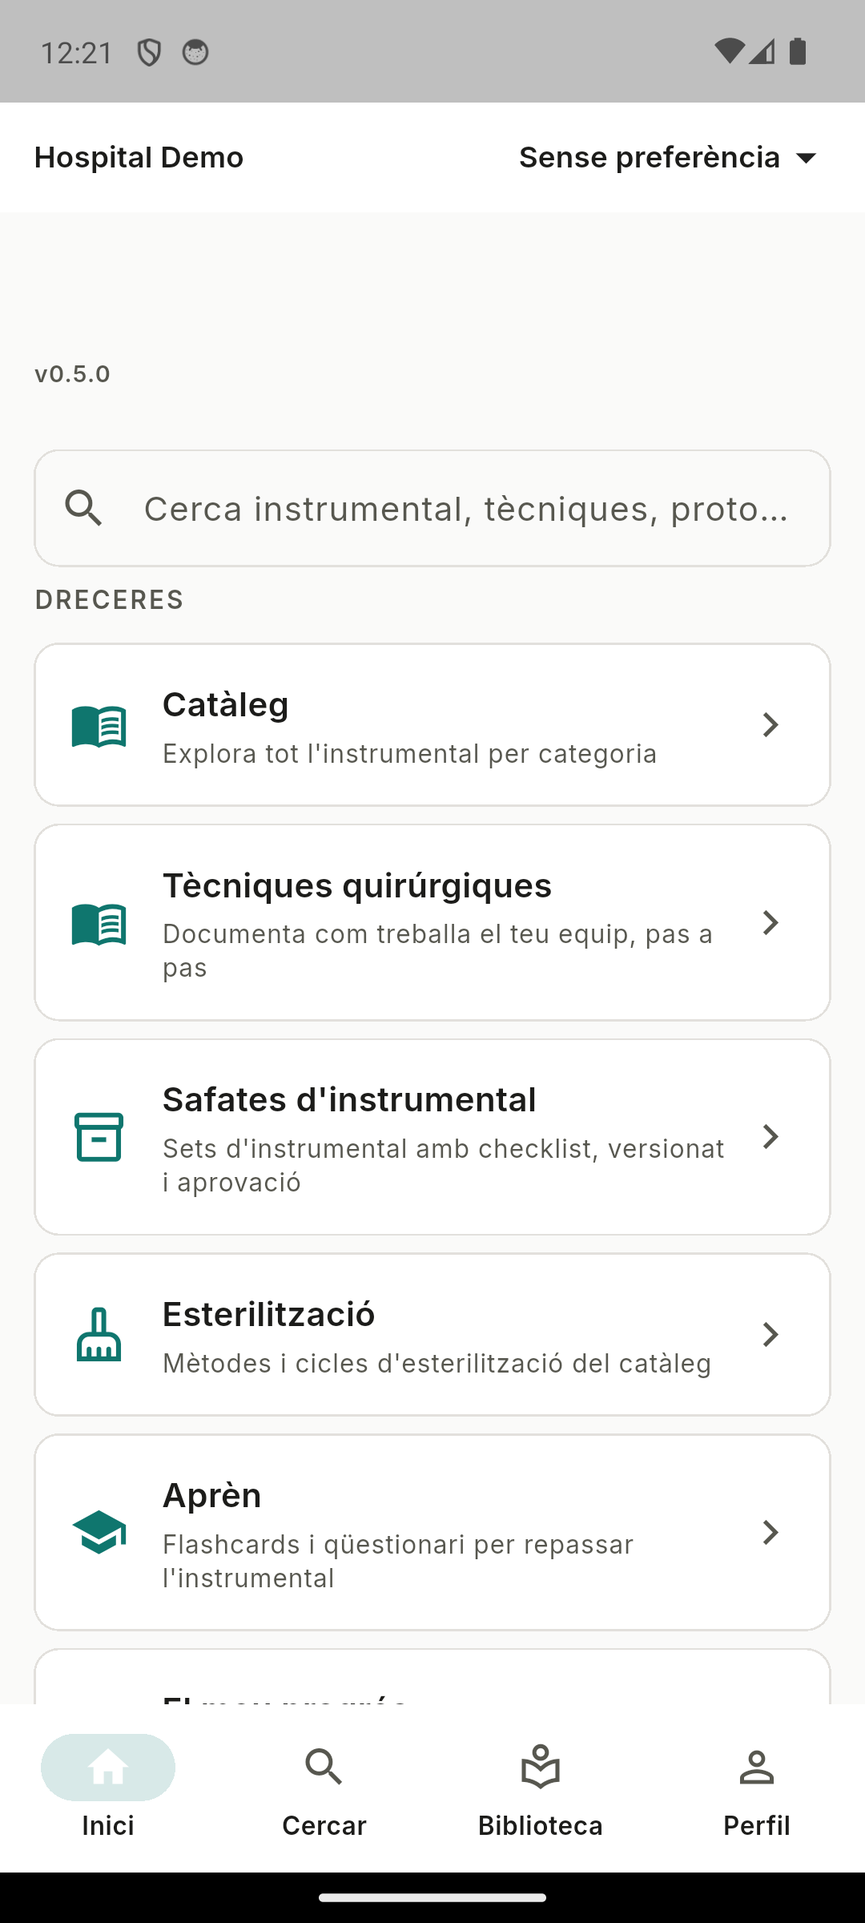
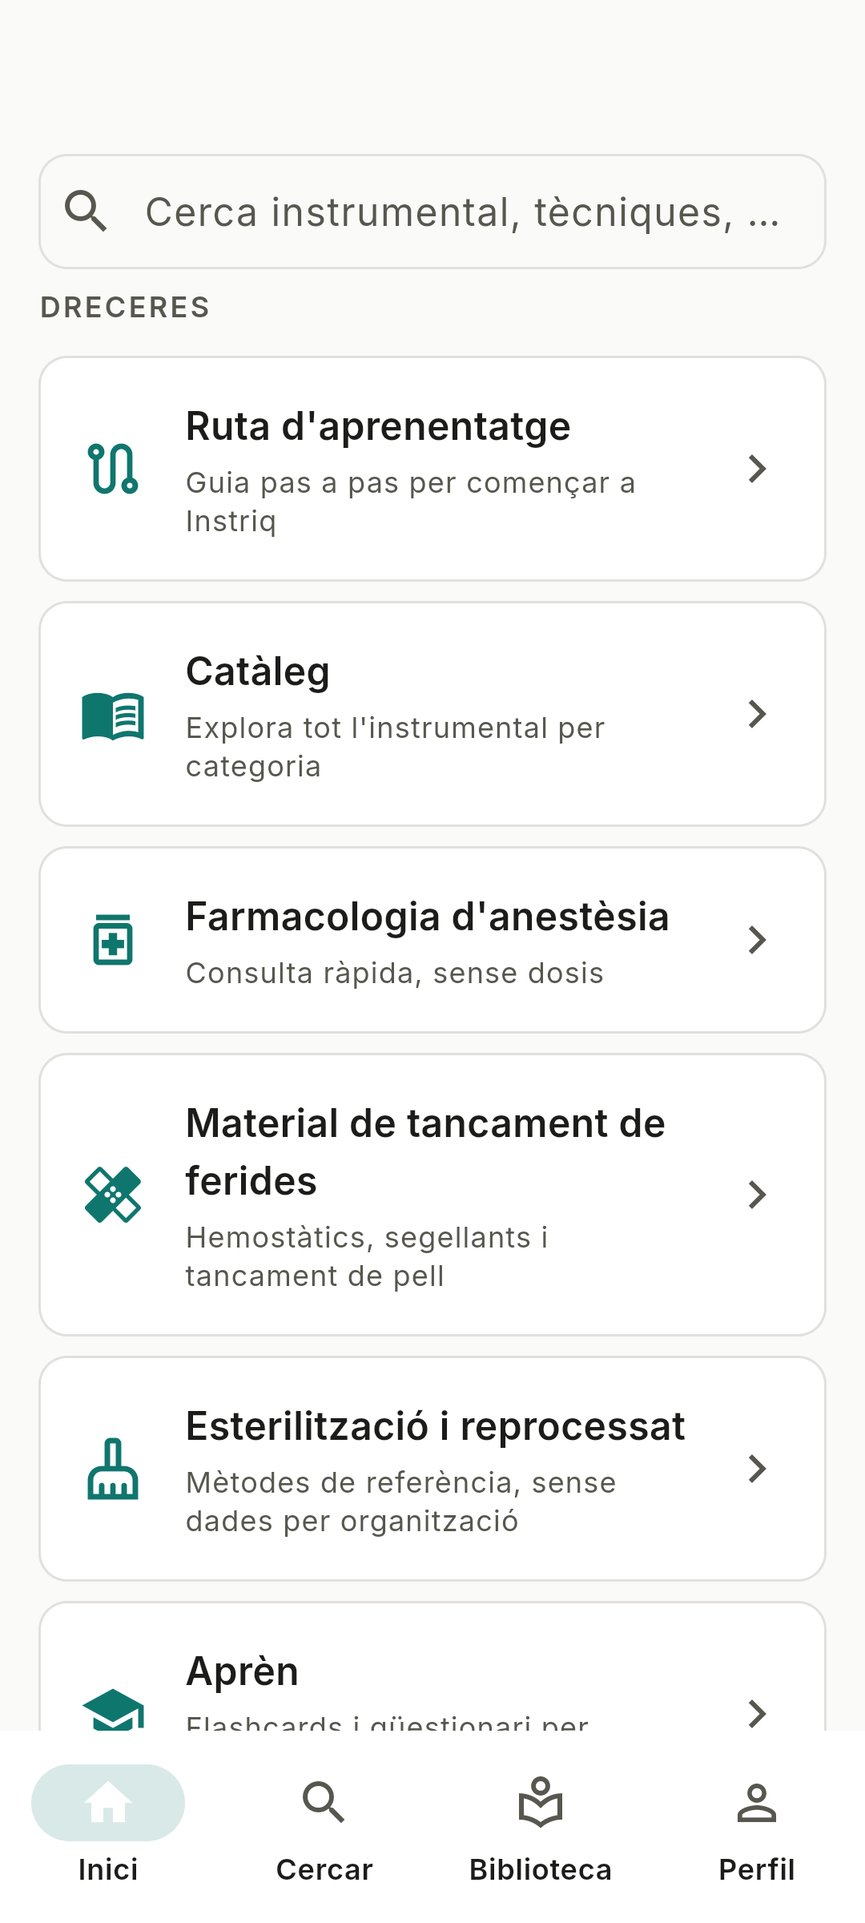
Captures actualitzades (home/catàleg) + pla de redisseny v1.2 (planificació)
Screenshots: capturades en viu amb Playwright contra flutter build web
(mateixa resolucio 1080x2400 que les originals), mode convidat, 'Saltar'
onboarding -> Inici i Cataleg reals d'avui (Dreceres amb els catalegs nous,
621 instruments). grupo.png/modo_quirofano.png no es toquen -- calen un
espai de treball autenticat real, fora d'abast d'aquesta ronda.

docs/redesign_v1.2_plan.md: pla de planificacio (NO implementacio) per a
un futur salt de versio 1.2, escrit per un agent dedicat a partir de
lectura real del codi (home_screen.dart sencer, navigation/, design_system/).
Troballa principal: no cal cap sistema de navegacio nou (el shell de 5
pestanyes ja funciona be) -- el problema real es una llista plana de
7-13 Dreceres sense agrupar, 3 duplicats d'acces detectats, i una cerca
global potent ja existent que la pestanya 'Cercar' no aprofita. 3 fases
proposades, totes sense dependencies noves, amb 6 decisions obertes
explicites per al propietari abans d'implementar.

diff --git a/docs/redesign_v1.2_plan.md b/docs/redesign_v1.2_plan.md
@@ -1,0 +1,235 @@
+# Pla de redisseny de navegació — v1.2 (Home + IA, planificació)
+
+> Tasca de **planificació**, no d'implementació. Objectiu del propietari, amb les seves paraules: fer la visualització més fàcil, que navegar i cercar es senti modern i còmode, **sense sacrificar rendiment**. No es toca cap pantalla en aquest tram — només aquest document. Basat en lectura real del codi (`lib/screens/home_screen.dart` sencer, `lib/navigation/`, `lib/design_system/`, grep de `lib/screens/`), no en suposicions. Mateix esperit que `docs/landing_redesign_phase2.md`: concret, amb l'evidència citada, amb els trade-offs explícits.
+
+---
+
+## 0. Troballa principal (per no enterrar-la)
+
+**El problema no és "falta un sistema de navegació modern" — ja existeix i funciona.** `lib/navigation/router.dart` + `lib/navigation/app_shell.dart` ja implementen una `StatefulShellRoute.indexedStack` de go_router amb 5 destins fixos (`NavigationBar` en mòbil, `NavigationRail` en pantalla ampla ≥840px): **Inici · Cercar · Biblioteca · Activitat · Perfil**. `LibraryScreen` i `ProfileHubScreen` ja agrupen el seu contingut per seccions amb `InstriqSectionHeader`. El problema real, confirmat llegint `home_screen.dart` sencer (1211 línies), és:
+
+1. La pestanya **"Inici" conté una secció "Dreceres" (`_buildQuickAccessSection`) que és una única llista vertical plana de fins a 13 `InstriqListItem`**, sense cap agrupació visual ni jerarquia — tot al mateix nivell, mateixa mida d'icona, mateix pes tipogràfic.
+2. **Hi ha accessos duplicats a la mateixa pantalla des de llocs diferents del shell** (detallat a §1.5) — no és "massa contingut", és contingut no organitzat i repetit.
+3. **Ja existeix una cerca global potent** (`_computeSearchResults` a `home_screen.dart`, 9 tipus d'entitat) amagada dins l'camp de cerca d'Inici, mentre la pestanya "Cercar" del shell obre només `CatalogScreen` (cerca d'instruments, no de tot). És un desaprofitament del que ja hi ha, no una funcionalitat que calgui construir.
+
+La recomanació principal (§3-4) és, doncs, **reorganitzar i consolidar amb els components i el shell que ja existeixen**, no construir cap sistema de navegació nou.
+
+---
+
+## 1. Estat actual (evidència)
+
+### 1.1 Shell de navegació real
+
+`lib/navigation/router.dart` — `GoRouter` amb `initialLocation: '/inicio'`, 1 ruta fora del shell (`/invite/:token`) i 5 branques dins de `StatefulShellRoute.indexedStack`:
+
+| # | Ruta | Pantalla | Icona |
+|---|---|---|---|
+| 0 | `/inicio` | `HomeScreen` | `home_outlined` |
+| 1 | `/buscar` | `CatalogScreen` | `search_outlined` |
+| 2 | `/biblioteca` | `LibraryScreen` | `local_library_outlined` |
+| 3 | `/actividad` | `ActivityScreen` | `notifications_outlined` |
+| 4 | `/perfil` | `ProfileHubScreen` | `person_outline` |
+
+`lib/navigation/app_shell.dart`: `NavigationBar` (<840px) o `NavigationRail` (≥840px), amb `WorkModeHeader` (52px, nom d'organització + selector de mode de treball, amagat sense hospital) sempre visible per sobre del contingut de la branca activa. La pestanya "Activitat" s'amaga si `!isAdmin && !canApproveAnyWorkspace` (`_activityBranchIndex`).
+
+**No cal dissenyar cap bottom nav nou: ja hi és, ja és responsive (nav bar ↔ nav rail), i ja amaga pestanyes segons rol.**
+
+### 1.2 Inventari real de "Dreceres" (Inici, sense cerca activa)
+
+Llegit sencer de `_buildQuickAccessSection` (`home_screen.dart:881-1012`). Llista única, sense subcapçaleres, ordre fix:
+
+| # | Ítem | Visible per a | Destí |
+|---|---|---|---|
+| 1 | Ruta d'aprenentatge | tothom | `LearningPathScreen` |
+| 2 | Catàleg | tothom | `CatalogScreen` |
+| 3 | Vademècum de fàrmacs | tothom | `DrugCatalogScreen` |
+| 4 | Tancament de ferides | tothom | `WoundClosureCatalogScreen` |
+| 5 | Esterilització (referència) | tothom | `SterilizationReferenceCatalogScreen` |
+| 6-7 | Tècniques, Bandeixes | amb hospital connectat | `GroupDocumentListScreen`/`TraysScreen` |
+| 8-9 | Fitxes de preferència, Protocols | amb hospital connectat | `PreferenceCardsScreen`/`GroupDocumentListScreen` |
+| 10 | Agenda quirúrgica | amb hospital connectat | `SurgicalAgendaScreen` |
+| 11 | Xarxa de grup | amb hospital **i** cadena (`hasGroup`) | `GroupNetworkScreen` |
+| 12 | Aprèn (flashcards/quiz) | tothom | `LearnScreen` |
+| 13 | El meu progrés | tothom | `ProgressScreen` |
+
+En mode "Cirurgià" els ítems 6-10 canvien d'ordre (preferència+protocols primero) — única personalització existent, via `_sectionOrderForMode`/el bloc `mode == WorkMode.cirujano ? [...] : [...]`.
+
+**Per tant: entre 7 (convidat) i 13 (soci d'una organització amb cadena) files idèntiques en pes visual, en una sola columna.** A ~76-84px per fila (icona 28px + 2 línies de text + padding `InstriqSpacing.lg`=16 + separador `sm`=8), només "Dreceres" ja ocupa ~1000-1150px de scroll en mòbil, abans de qualsevol altra secció.
+
+### 1.3 Altres seccions d'Inici (condicionals, per sobre o per sota de Dreceres segons `_sectionOrderForMode`)
+
+- **Pendents d'aprovar** (`_buildPendingApprovalSection`) — només admin/approver, fins a 5 ítems + "Veure-ho tot".
+- **Safates per preparar** (`_buildTrayPrepSection`) — només mode Instrumentista, fins a 5.
+- **Progrés de l'equip** (`_buildTeamProgressSection`) — només mode Docent + rol d'aprovació, 1 enllaç.
+- **Activitat recent** (`_buildRecentSection`) — usuari autenticat, fins a 8.
+- **Favorits** (`_buildFavoritesSection`) — usuari autenticat, sense límit, agrupats per tipus.
+
+Pitjor cas real (admin en mode Supervisió, hospital+cadena, amb pendents i favorits): **Pendents d'aprovar + 13 Dreceres + Recents + Favorits**, tot en un únic `SingleChildScrollView` vertical (`_buildDefaultBody`, línia 875).
+
+### 1.4 Cerca ja existent (reutilitzar, no reinventar)
+
+El camp de cerca d'Inici (`TextField` a `build()`, línia 674) ja crida `_computeSearchResults` (línia 544), que filtra en client **9 tipus d'entitat alhora**: instruments de catàleg, tècniques, protocols, safates, instrumental personalitzat, instrumental de Biblioteca Pública, fabricants, cirurgians i etiquetes — amb `fuzzyContains` (`lib/utils/fuzzy_match.dart`, sense dependència externa) i debounce de 150ms (`_liveSearchDebounce`) ja afinat per rendiment (comentari explícit a la línia 176-180 sobre per què cal el debounce). Els resultats es renderitzen amb `ListView.builder` + `InstriqSectionHeader` per tipus (línies 744-855) — **exactament el patró de "llista agrupada per seccions" que aquest pla recomana estendre a Dreceres** (§3.2).
+
+La pestanya "Cercar" del shell, en canvi, **no usa res d'això**: obre `CatalogScreen`, que només cerca dins del catàleg d'instruments (`matchesInstrumentFilters`, `catalog_screen.dart:22`) amb filtres de categoria/especialitat propis. Són dues cerques diferents amb abast diferent sota noms que suggereixen el mateix.
+
+### 1.5 Duplicacions detectades (evidència, no suposició)
+
+| Contingut | Accessible des de | Fitxers |
+|---|---|---|
+| Catàleg d'instruments | Dreceres (#2) **i** pestanya "Cercar" (`/buscar`) | `home_screen.dart:951-958`, `router.dart:51` — mateix `CatalogScreen` |
+| El meu progrés | Dreceres (#13) **i** Perfil → "Preferències" | `home_screen.dart:1002-1009`, `profile_hub_screen.dart:257-258` — mateix `ProgressScreen` |
+| Tècniques, Bandeixes, Protocols, Fitxes de preferència | Dreceres (#6-9) **i** Biblioteca → "Les meves col·leccions" | `home_screen.dart:883-917`, `library_screen.dart:121-186` — mateixos destins, resolts amb la mateixa lògica d'espai (`_openWorkspaceCollection` vs `_openCollection`) |
+
+`LibraryScreen` ja fa, per a 5 col·leccions de grup (hi afegeix Instrumental personalitzat, que Dreceres no té), exactament el que Dreceres intenta fer per a 4 d'elles — amb capçaleres de secció (`InstriqSectionHeader`) que Dreceres no té. No calen pantalles noves: **cal decidir on viu cada cosa un sol cop** (§3.3, i és una de les decisions obertes de §8).
+
+### 1.6 Design system disponible (construir-hi a sobre, no reinventar)
+
+`lib/design_system/`:
+- **Tokens** (`tokens.dart`): `InstriqColors` (accent teal fix, no `colorSchemeSeed`), `InstriqSpacing` (escala 4/8/12/16/24/32/48, cap número solt), `InstriqRadius` (8/12/16), `InstriqBreakpoints` (`tablet`=840, `desktop`=1280, `maxContentWidth`=720, `dashboardWideGrid`=1500), `InstriqTypography` (Manrope per a títols, Inter per a cos — ja carregades, 0 fonts noves).
+- **Components reutilitzables**: `InstriqListItem` (icona+títol+subtítol+chevron, usat ja a Inici/Biblioteca/Activitat/Perfil), `InstriqSectionHeader` (etiqueta majúscules, `letterSpacing: 1.1`), `InstriqSurface` (reemplaça `Card`: vora d'1px + radi, sense ombra Material — ja és el llenguatge visual pla/sobri de tota l'app), `InstriqBadge`, `InstriqCountBadge`, `InstriqResponsiveContent` (centra contingut a `maxContentWidth` en pantalla ampla, no-op en mòbil).
+- **Precedent directe de graella de targetes ja construït**: `HomeDashboardPanel` (`lib/screens/home_dashboard_panel.dart`, substitueix Dreceres en escriptori ample ≥1280px per a admins) ja fa un `Wrap` de `_DashboardTile` (targeta `Card` amb icona+títol+contingut+enllaç) amb 2-3 columnes segons amplada. **És exactament el patró visual que aquest pla proposa portar a mòbil per a Dreceres** (§4.2) — no cal inventar cap component nou, cal generalitzar-ne un que ja existeix i ja es construeix (`cols = constraints.maxWidth >= dashboardWideGrid ? 3 : 2`).
+
+### 1.7 Rendiment ja resolt, a respectar
+
+- `cached_network_image` ja gestiona totes les fotos (catàleg, comunitat) — cap re-descàrrega en fred (`CHANGELOG.md:46`).
+- Debounce de 150ms en cerca en viu + 500ms en analítica de cerca, deliberat i documentat al propi codi (`home_screen.dart:170-181`).
+- `ListView.builder` (no `ListView(children: [...])`) als resultats de cerca per no construir desenes d'ítems de cop (`home_screen.dart:743-746`).
+- `InstriqResponsiveContent` ja resol "no estirar de vora a vora en escriptori" sense cap `LayoutBuilder` per pantalla.
+- Cap paquet d'icones, animació ni UI extern: tot Material `Icons.*` + `flutter/material.dart`.
+
+**Cap d'aquestes garanties es toca en aquest pla.** Qualsevol proposta de §3-4 reusa `ListView`/`Wrap`/`InstriqSurface` existents — res que introdueixi un nou re-render global, una nova crida de xarxa a cada frame, ni una animació costosa.
+
+---
+
+## 2. Diagnòstic (en una frase per punt)
+
+1. Dreceres és una llista plana de 7-13 ítems sense agrupació — l'usuari ha d'escanejar-ho tot per trobar-ne un.
+2. 3 blocs de contingut (catàleg, progrés, col·leccions de grup) tenen **2 camins diferents** cap al mateix destí, sense que cap sigui "el" camí canònic.
+3. La pestanya "Cercar" del shell no és la cerca potent que ja existeix (la d'Inici) — és un nom que promet més del que la pantalla fa.
+4. No hi ha cap jerarquia visual dins de Dreceres: un ítem molt usat (Catàleg) pesa visualment igual que un de nínxol (Xarxa de grup, només per a qui té cadena).
+5. El Design System ja té el vocabulari (tokens, `InstriqSurface`, el patró de graella de `HomeDashboardPanel`) per resoldre 1 i 4 sense dependències noves.
+
+---
+
+## 3. Arquitectura d'informació proposada
+
+### 3.1 Mantenir els 5 destins fixos del shell tal qual
+
+Inici · Cercar · Biblioteca · Activitat · Perfil ja cobreixen una IA de nivell superior raonable (vista general / cerca / contingut d'equip / cua de treball / compte). **No es proposa cap pestanya nova ni eliminar-ne cap** — Activitat ja es correctíssimament oculta per a qui no en té ús. Canviar aquest nivell ara seria refer feina de "Nivell 2 — navegació" del Design System (`docs/BACKLOG.md:71`), ja feta i estable.
+
+### 3.2 Reagrupar Dreceres en blocs amb capçalera, no una llista plana
+
+Mateix patró que `_buildSearchResults` ja usa (`addSection(title, items)`, `home_screen.dart:748-757`): agrupar, no aplanar. Proposta de blocs (reutilitzant el llenguatge d'IA ja aprovat pel propietari al landing — `docs/landing_redesign_phase2.md:34-37` — per coherència entre landing i app, no per casualitat):
+
+- **Consultar** (sempre visible, sense compte): Catàleg, Vademècum de fàrmacs, Tancament de ferides, Esterilització.
+- **Aprendre** (sempre visible): Ruta d'aprenentatge, Aprèn (flashcards/quiz), El meu progrés.
+- **Documentar** (només amb hospital connectat): Tècniques, Protocols, Bandeixes, Fitxes de preferència, Agenda quirúrgica.
+- **Equip** (només amb cadena, `hasGroup`): Xarxa de grup — 1 sol ítem, no justifica secció pròpia; candidat a §8 (decisió oberta: fusionar-lo dins "Documentar" o deixar-lo fora de Dreceres i accessible només des de Biblioteca/Perfil).
+
+Cost: **gratuït** — és reordenar literals dins del mateix `Column`, intercalant `InstriqSectionHeader` entre blocs, exactament com ja fa `_buildSearchResults`.
+
+### 3.3 Consolidar els 3 duplicats de §1.5 (decisió pendent de quin costat guanya)
+
+Per a cadascun, 2 opcions, cap decidida aquí (veure §8):
+
+- **Catàleg**: (a) treure'l de Dreceres i confiar que la pestanya "Cercar" ja hi porta, o (b) deixar-lo a Dreceres perquè és l'accés més usat i no tothom associa "Cercar" amb "catàleg d'instruments".
+- **El meu progrés**: (a) treure'l de Dreceres (ja és a Perfil → Preferències), o (b) deixar-lo perquè "progrés" és contingut de consulta freqüent, no de configuració, i Perfil és conceptualment "compte", no "el meu rendiment".
+- **Tècniques/Protocols/Bandeixes/Fitxes de preferència**: (a) treure-les de Dreceres i deixar que "Documentar" a Inici sigui només un enllaç a Biblioteca (1 ítem, "Les meves col·leccions"), o (b) mantenir-les a Dreceres com a drecera real i deixar Biblioteca com el lloc "d'inventari complet" (hi afegeix Instrumental personalitzat i "El meu grup").
+
+### 3.4 Cerca: fer de "Cercar" la cerca real, no el catàleg
+
+Extreure `_computeSearchResults`/`_SearchResults`/`_buildSearchResults` de `home_screen.dart` a un servei o widget compartit (p.ex. `lib/widgets/global_search.dart` o un `GlobalSearchService`), i:
+- Inici el manté igual (cerca inline, mateix comportament d'avui).
+- La pestanya "Cercar" (`/buscar`) hi passa a apuntar en comptes d'a `CatalogScreen` — amb el filtre de categoria/especialitat de `CatalogScreen` com una pestanya/filtre més dins d'aquesta cerca unificada, no eliminat.
+
+Cost: **cheap** — és moure codi Dart ja escrit i provat (cap algorisme nou, cap dependència nova), però toca 2 pantalles i el router, per això va a una fase pròpia (§6, Fase 3) i no a la Fase 1.
+
+---
+
+## 4. Canvis visuals/interacció concrets
+
+### 4.1 Capçaleres de secció dins Dreceres (§3.2)
+
+`InstriqSectionHeader` per bloc, `InstriqSpacing.xl` (24px) entre blocs en comptes de `sm` (8px) entre ítems solts — ja és la mateixa escala que separa seccions avui (`_buildDefaultBody` ja posa `InstriqSpacing.xl` entre `Pendents`/`Dreceres`/`Recents`/`Favorits`; només cal aplicar-la també *dins* de Dreceres).
+
+### 4.2 Graella de targetes 2 columnes per al bloc "Consultar" en mòbil (inspirat en `HomeDashboardPanel`, §1.6)
+
+Els 4 ítems de "Consultar" (Catàleg, Fàrmacs, Tancament de ferides, Esterilització) són els de contingut de referència pur (sense estat, sense dades personals) — bons candidats a una graella 2×2 de targetes compactes (icona gran + títol, sense subtítol) en comptes de 4 files completes d'`InstriqListItem`. Reaprofita `InstriqSurface` + `Wrap` amb `tileWidth = (amplada - gap)/2`, el mateix càlcul que ja fa `HomeDashboardPanel._buildTiles` per a 2-3 columnes. "Aprendre" i "Documentar" es queden com a llista (`InstriqListItem`) perquè alguns dels seus ítems sí porten subtítol/estat útil (p.ex. bandeixes "per preparar").
+
+Cost: **cheap** — `Wrap`+`InstriqSurface` ja existeixen, només cal una targeta més senzilla que `_DashboardTile` (sense `Future`/stat, estàtica).
+
+### 4.3 Iconografia: cap canvi de llibreria
+
+Totes les icones actuals ja són `Icons.*` (Material). Cap proposta d'aquest pla necessita una icona que no existeixi ja a Material Icons — **no s'afegeix cap paquet d'icones**.
+
+### 4.4 Bottom nav: no es toca
+
+Ja és `NavigationBar`/`NavigationRail` responsiu (§1.1). Cap canvi proposat aquí.
+
+### 4.5 Sense animacions nous
+
+Cap transició, `Hero`, ni `AnimatedContainer` nou proposat. Les targetes de §4.2 es pinten estàtiques, igual que `_DashboardTile` avui (cap animació a l'entrada/sortida).
+
+---
+
+## 5. Cost per proposta (per triar sempre el més barat primer)
+
+| Proposta | Cost | Per què |
+|---|---|---|
+| Agrupar Dreceres amb `InstriqSectionHeader` (§3.2, §4.1) | **Gratuït** | Reordenar widgets existents, reusar `addSection` ja escrit a `_buildSearchResults` |
+| Decidir i eliminar els 3 duplicats (§3.3) | **Gratuït–cheap** | Esborrar codi (menys `build()`, no més); l'únic cost és decidir quin costat es queda (§8) |
+| Graella 2×2 per a "Consultar" (§4.2) | **Cheap** | `Wrap`+`InstriqSurface` ja existents; nova classe de targeta petita, sense `Future`/estat |
+| Extreure cerca global a servei compartit + redirigir "Cercar" (§3.4) | **Cheap** | Codi Dart ja escrit i provat, moure'l no reescriure'l; toca router + 2 pantalles |
+| Qualsevol compressió d'imatges/icones noves, paquet d'il·lustració, Lottie, etc. | **No proposat** | Fora d'abast — regressió de pes/rendiment, cap necessitat detectada |
+
+Ordre d'execució recomanat: sempre gratuït abans que cheap (§6).
+
+---
+
+## 6. Fases d'implementació (per a una sessió futura)
+
+### Fase 1 — Agrupació sense tocar destins ni rutes
+- Dividir `_buildQuickAccessSection` en sub-mètodes per bloc (`_buildConsultarBlock`, `_buildAprendreBlock`, `_buildDocumentarBlock`) amb `InstriqSectionHeader` entre ells.
+- Aplicar la decisió presa a §8.1-8.3 sobre quins dels 3 duplicats s'eliminen de Dreceres.
+- Cap canvi de router, cap pantalla nova.
+
+### Fase 2 — Graella de targetes per al bloc "Consultar" en mòbil
+- Nou widget petit (p.ex. `_QuickAccessTile`, inspirat en `_DashboardTile` sense `Future`) + `Wrap` 2 columnes.
+- Mantenir el mateix bloc com a llista (`InstriqListItem`) en pantalla ampla si `HomeDashboardPanel` ja hi mostra el panell d'escriptori (evitar duplicar dues graelles diferents per al mateix contingut a la mateixa amplada).
+
+### Fase 3 — Cerca unificada a la pestanya "Cercar"
+- Extreure `_SearchResults`/`_computeSearchResults`/`_buildSearchResults` a un lloc compartit.
+- Redirigir `/buscar` cap a la cerca unificada; integrar els filtres de categoria/especialitat de `CatalogScreen` com a filtre dins d'aquesta cerca (no eliminar-los).
+- És la fase de més risc d'integració (toca router + 2 pantalles ja en producció) — recomanat fer-la per separat, amb el seu propi cicle de verificació complet.
+
+Cap fase introdueix una dependència nova a `pubspec.yaml`.
+
+---
+
+## 7. Verificació després de cada fase
+
+- `flutter analyze` i `flutter test` nets (0 avisos, 0 fallades) — no negociable, igual que la resta del projecte.
+- Passada en viu amb Playwright contra `flutter build web` servit en local (mateix criteri que la migració de go_router, `docs/BACKLOG.md:21`): comprovar que les 5 pestanyes carreguen, que Dreceres mostra els blocs correctes segons rol/mode (convidat, usuari amb hospital, admin en mode Supervisió/Instrumentista/Docent/Cirurgià), captures de pantalla abans/després.
+- Sense regressió de temps de càrrega percebut d'Inici: mateix nombre de crides de xarxa que avui (`_loadGroupContent`/`_loadRecentAndFavorites` no es toquen, només com es pinta el resultat).
+- Verificar explícitament que el debounce de cerca (150ms/500ms) i `cached_network_image` seguixen intactes després de la Fase 3 (és la fase que toca codi de cerca).
+- Comprovar responsive real a 3 amplades (mòbil <840px, tablet 840-1280px, escriptori ≥1280px amb `HomeDashboardPanel`) — no assumir-ho, igual que l'auditoria d'accessibilitat/responsive ja feta (`docs/BACKLOG.md:81`) va trobar que cap pantalla limitava l'amplada abans d'`InstriqResponsiveContent`.
+
+---
+
+## 8. Decisions obertes del propietari (abans d'implementar cap fase)
+
+1. **Catàleg a Dreceres i a "Cercar" alhora: es manté redundant o es tria un sol camí?** (§3.3) Mantenir-lo a tots dos costats és més fàcil de descobrir per a algú nou; treure'l de Dreceres fa la llista més curta però confia que l'usuari associï "Cercar" amb el catàleg.
+2. **"El meu progrés" a Dreceres i a Perfil alhora: es manté o es tria un sol camí?** (§3.3)
+3. **Tècniques/Protocols/Bandeixes/Fitxes de preferència: es queden com a drecera directa a Inici, o Inici només enllaça a "Les meves col·leccions" de Biblioteca?** (§3.3) Afecta directament quants ítems queda el bloc "Documentar" de Dreceres (de 5 a potencialment 1).
+4. **"Xarxa de grup" (només visible amb `hasGroup`): secció pròpia d'1 ítem, dins de "Documentar", o fora de Dreceres (només des de Biblioteca/Perfil)?** (§3.2)
+5. **Abast de la Fase 3 (cerca unificada a "Cercar")**: és un canvi de comportament visible (la pestanya "Cercar" deixa de ser "el catàleg" i passa a ser "cerca de tot") — necessita el vistiplau explícit del propietari abans d'escometre's, no és purament cosmètic com les Fases 1-2.
+6. **Ordre de blocs per mode de treball**: avui només "Cirurgià" reordena Dreceres (preferència/protocols primer). Amb blocs en comptes de llista plana, té sentit estendre aquesta personalització a més modes (p.ex. Instrumentista amb "Documentar" primer), o es manté igual que avui (només Cirurgià) per no complicar el component?
+
+---
+
+## 9. Fora d'abast d'aquest pla
+
+- Qualsevol canvi a `catalog_screen.dart`, `library_screen.dart`, `profile_hub_screen.dart` o al router més enllà del descrit a la Fase 3 — aquest document no els toca, només els llegeix com a evidència.
+- Redisseny del landing (`landing/index.html`) — ja té el seu propi pla a `docs/landing_redesign_phase2.md`/`landing_redesign_phase5_informe.md`, és un artefacte diferent (web pública, no l'app Flutter).
+- Cerca semàntica/IA (EPIC 5 part semàntica, EPIC 6) — bloquejada per ADR-002, no relacionada amb aquest redisseny visual.
+- Qualsevol dependència nova (paquet d'icones, animació, disseny) — explícitament descartat; tot el proposat es construeix amb el que ja hi ha a `pubspec.yaml` i `lib/design_system/`.
